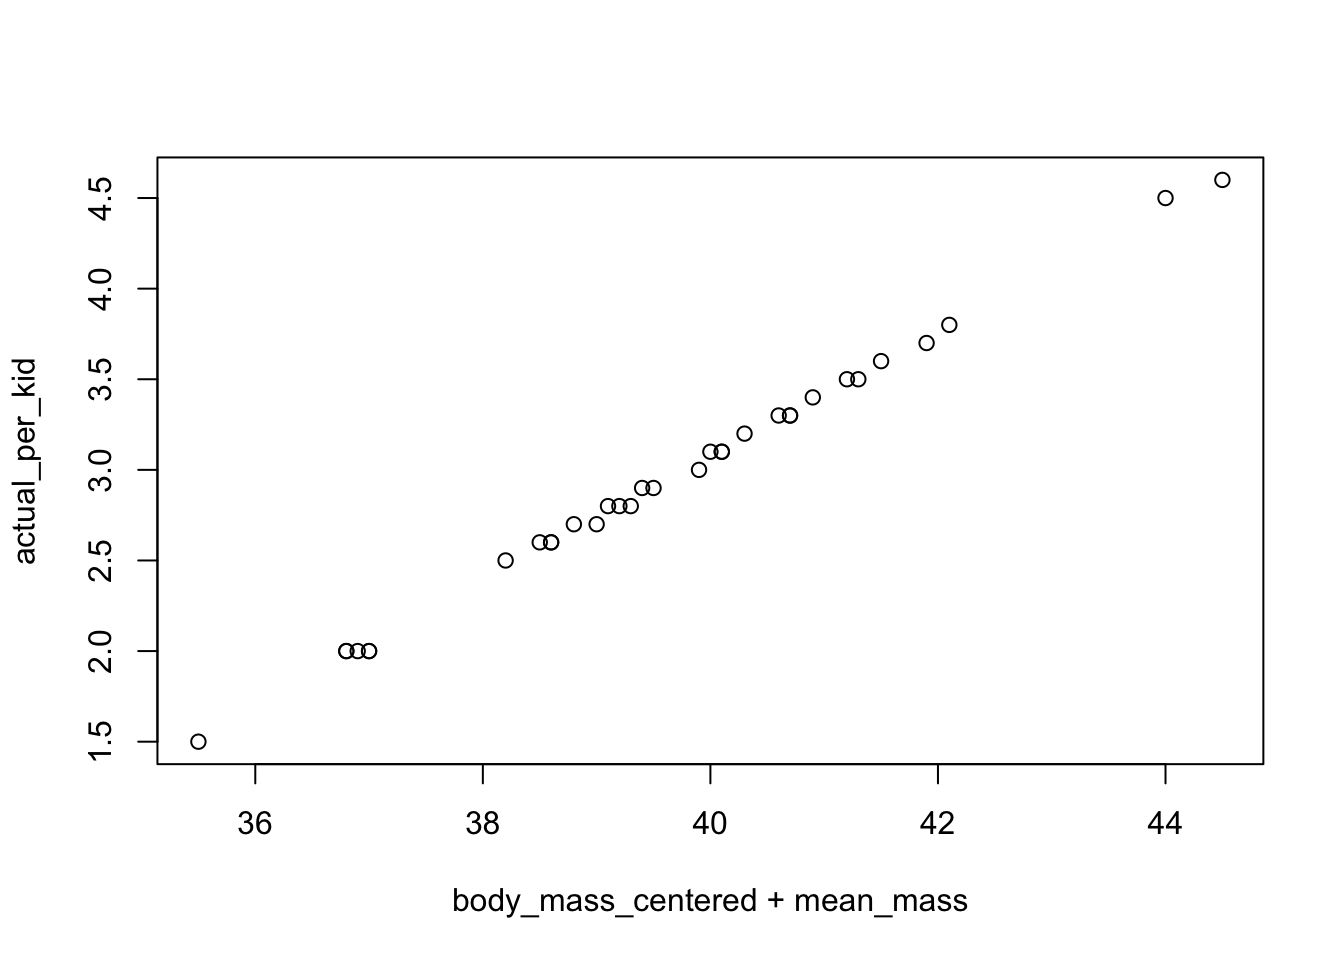
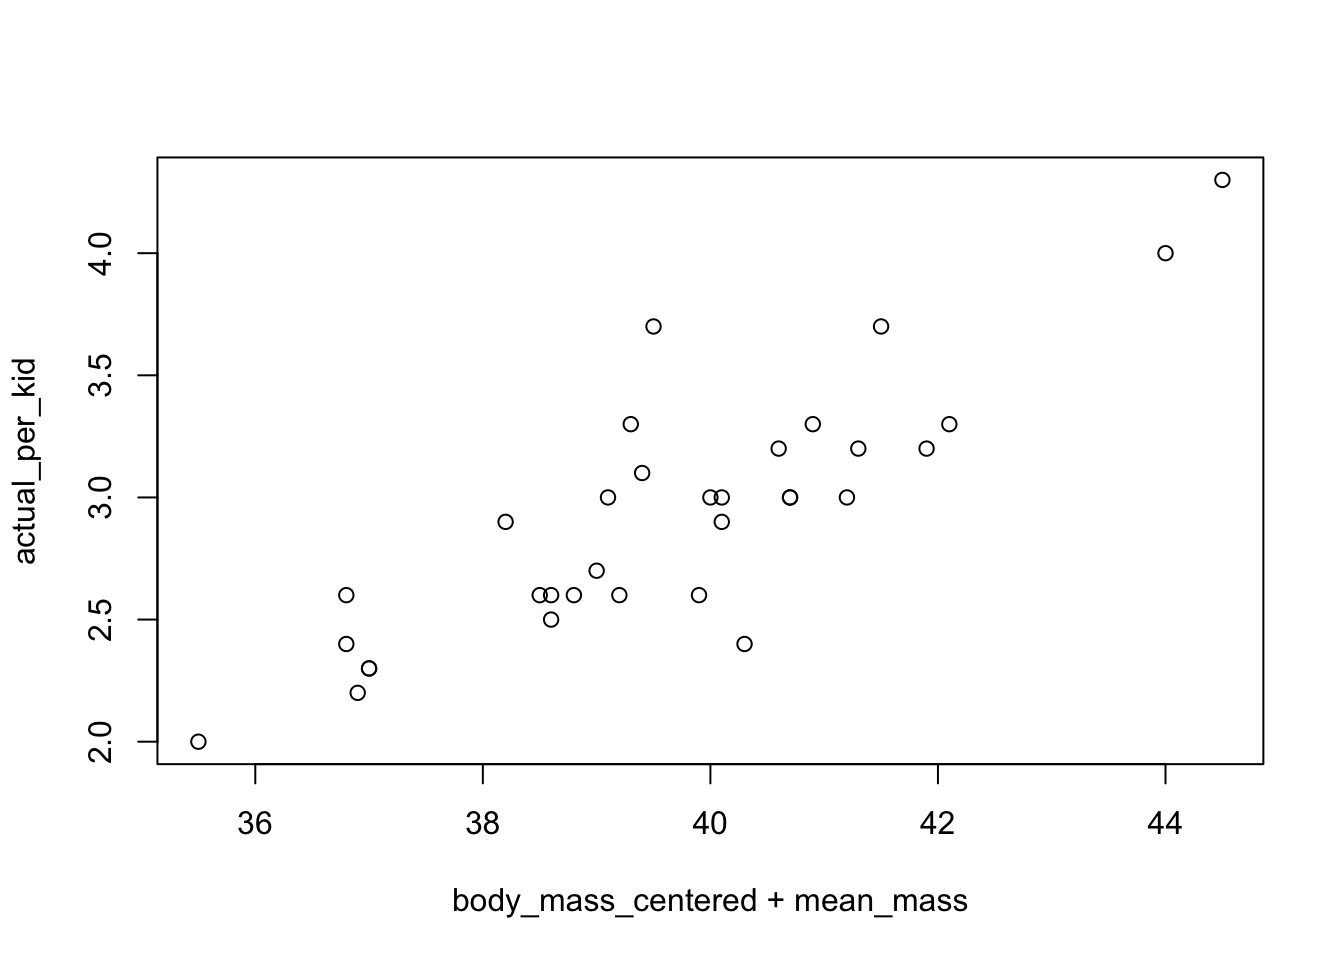
tweak random seed

diff --git a/content/post/2018-04-06-group-mean-variables.html b/content/post/2018-04-06-group-mean-variables.html
@@ -45,10 +45,10 @@ average_per_kid &lt;- average_pizza + mass_hunger * body_mass_centered
 range(average_per_kid)</code></pre>
 <pre><code>## [1] 2.18 3.98</code></pre>
 <p>OK so between 2 and 4 slices per kid – seems plausible! But of course how much a kid eats is not determined by their mass alone. They vary in many ways, including their own inclinations, how they’ve been socialized, how hard they played Sportsball that day, what they had for breakfast etc. Many small effects might well give us a normal variation around the pizza slice average<a href="#fn1" class="footnoteRef" id="fnref1"><sup>1</sup></a>:</p>
-<pre class="r"><code>set.seed(4812)
+<pre class="r"><code>set.seed(1234)
 # add normal variation to the average values
 # and round because anything smaller than tenths is just silly:
-actual_per_kid &lt;- round(average_per_kid + rnorm(33, mean = 0, sd = 0.33), 1)
+actual_per_kid &lt;- round(average_per_kid + rnorm(n = 33, mean = 0, sd = 0.3), 1)
 
 plot(body_mass_centered + mean_mass, actual_per_kid)</code></pre>
 <p><img src="/post/2018-04-06-group-mean-variables_files/figure-html/pizza-plot-1.png" width="672" /></p>
